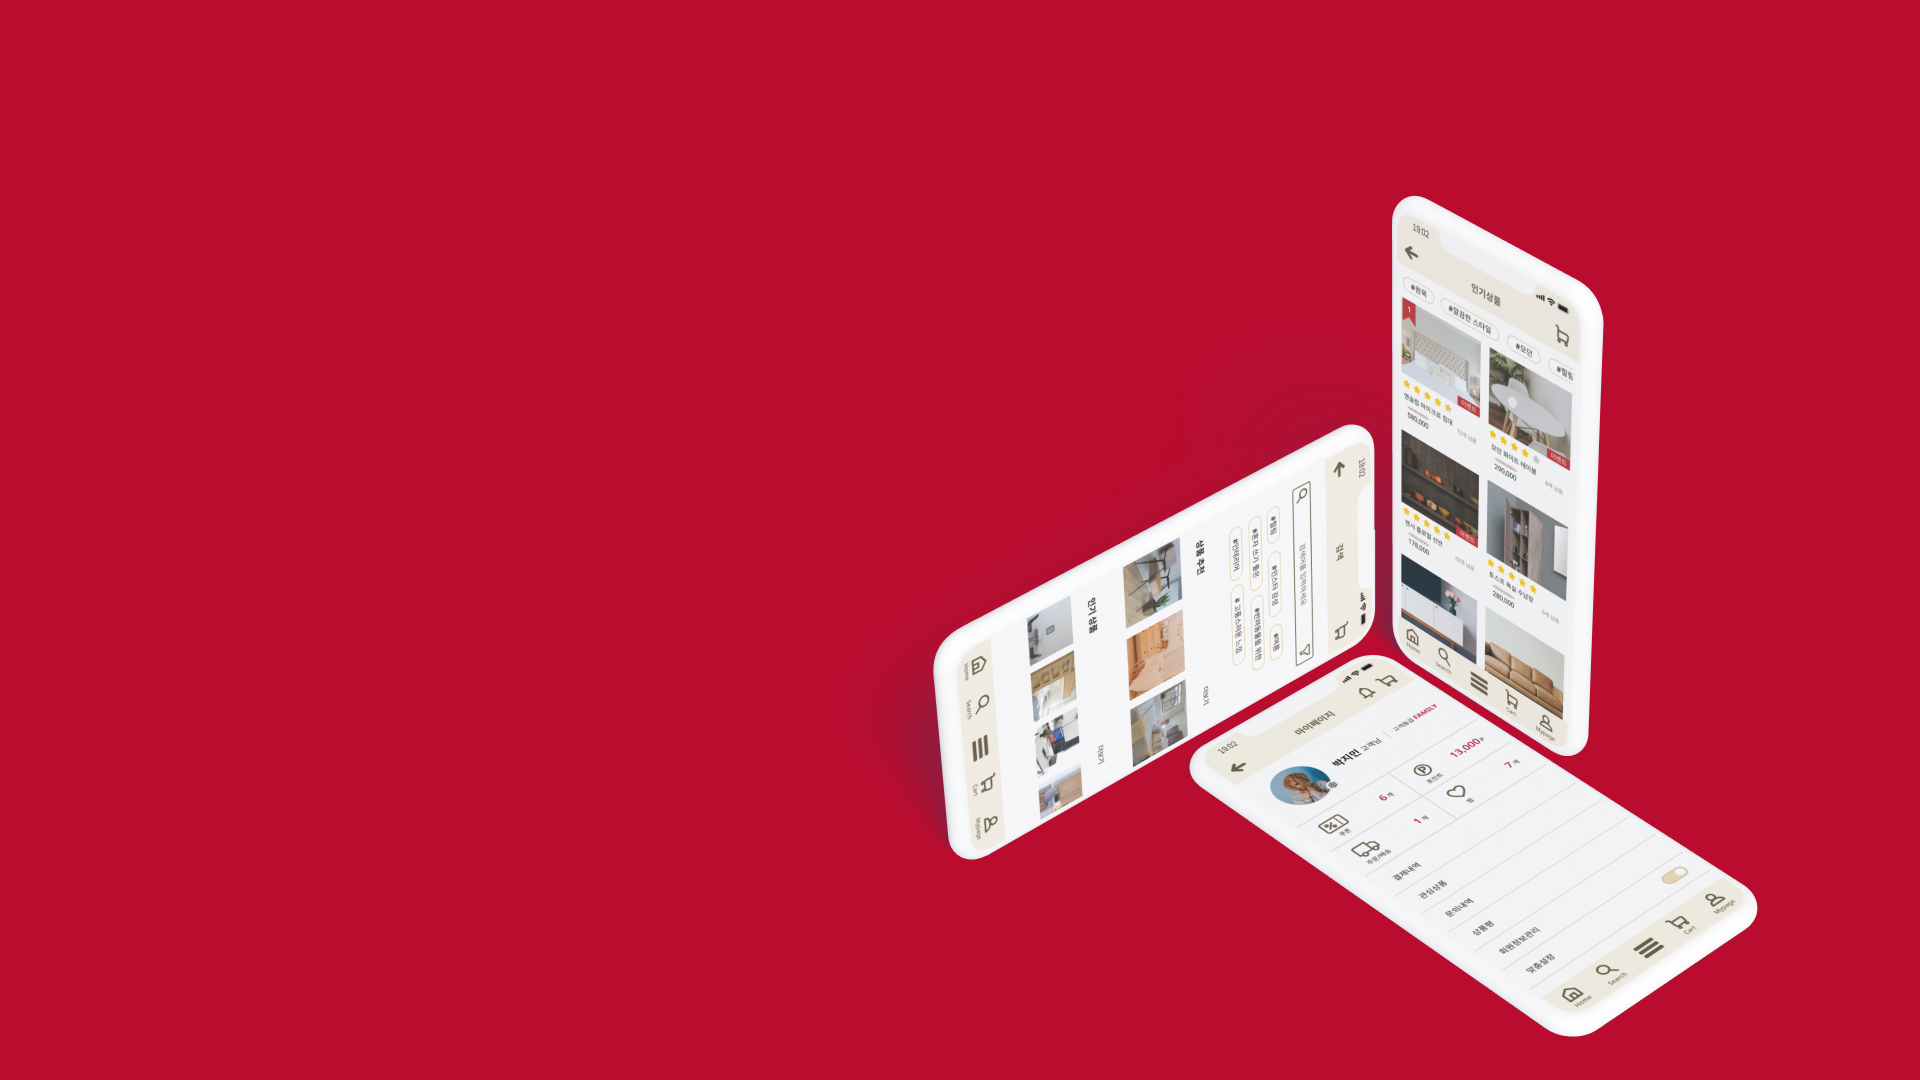
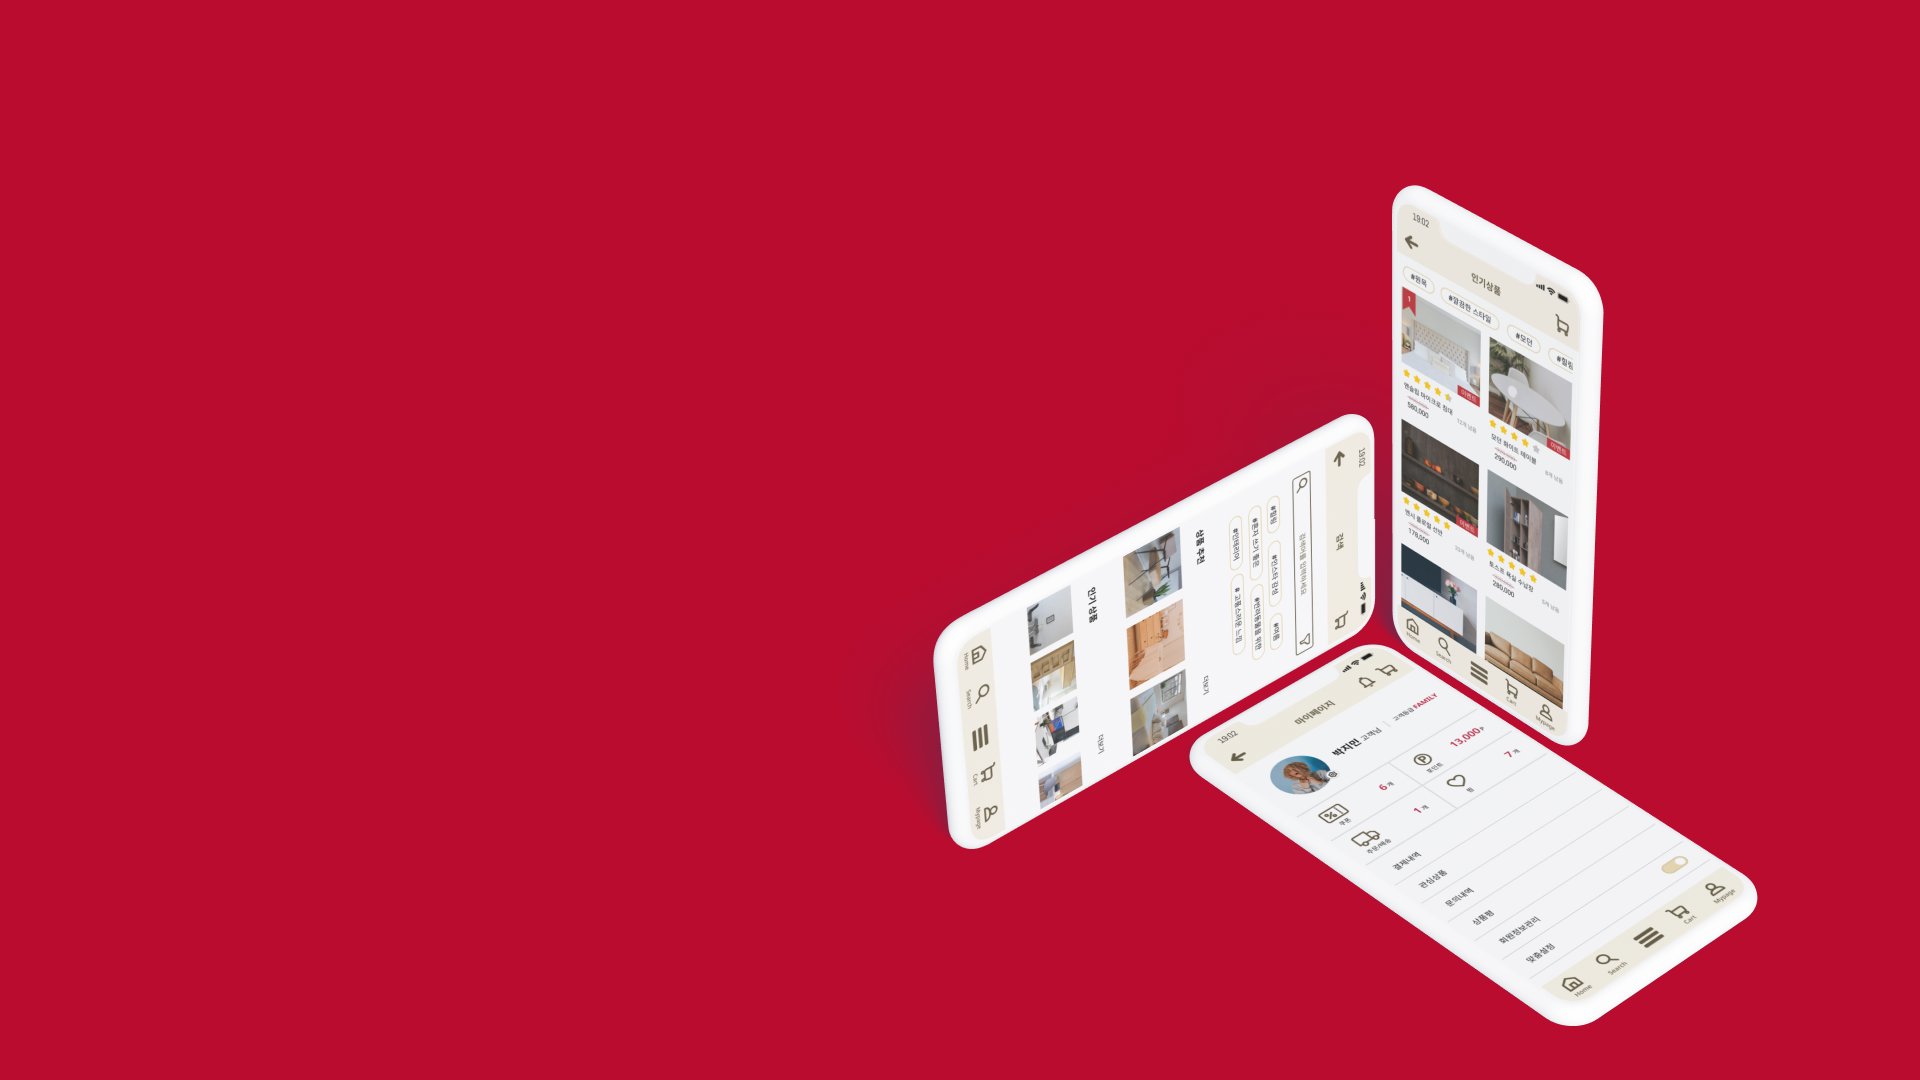
아이템 위치 수정

Changed region(s): [[0.4688, 0.1528, 0.9375, 0.9778]]

diff --git a/docs/pf/work1/index.css b/docs/pf/work1/index.css
@@ -101,13 +101,9 @@ body::-webkit-scrollbar {
   }
 
   .box-9 {
-    top:50%;
-    left: 50%;
-    transform: translate(-50%, -50%);
-  }
+    right:0; }
 
   .box-10 {
-    top:432px;
-    left:50%;
-    transform: translateX(-50%);
+    top:185px;
+    left:162px;
   }
